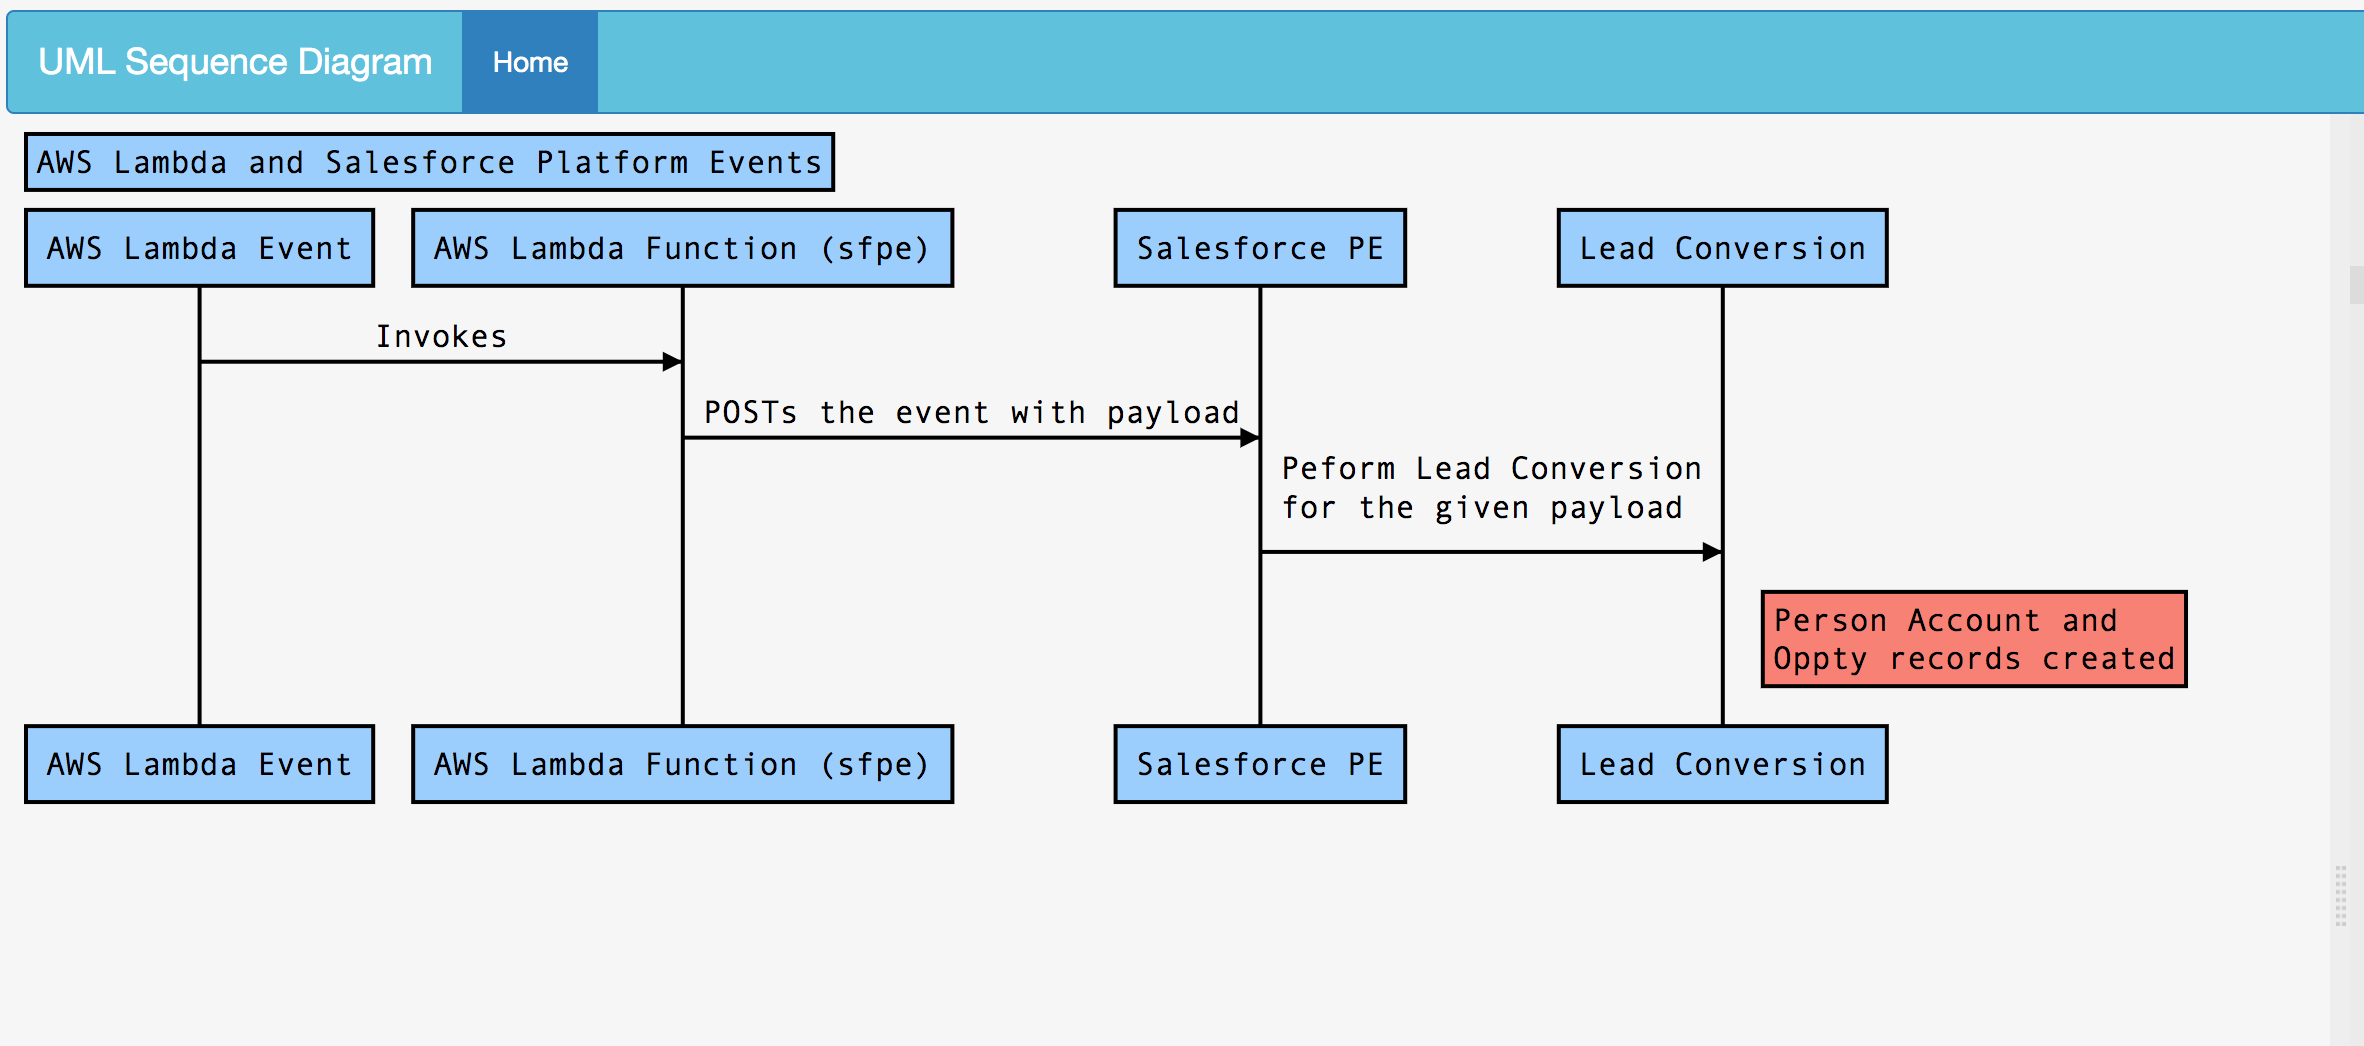
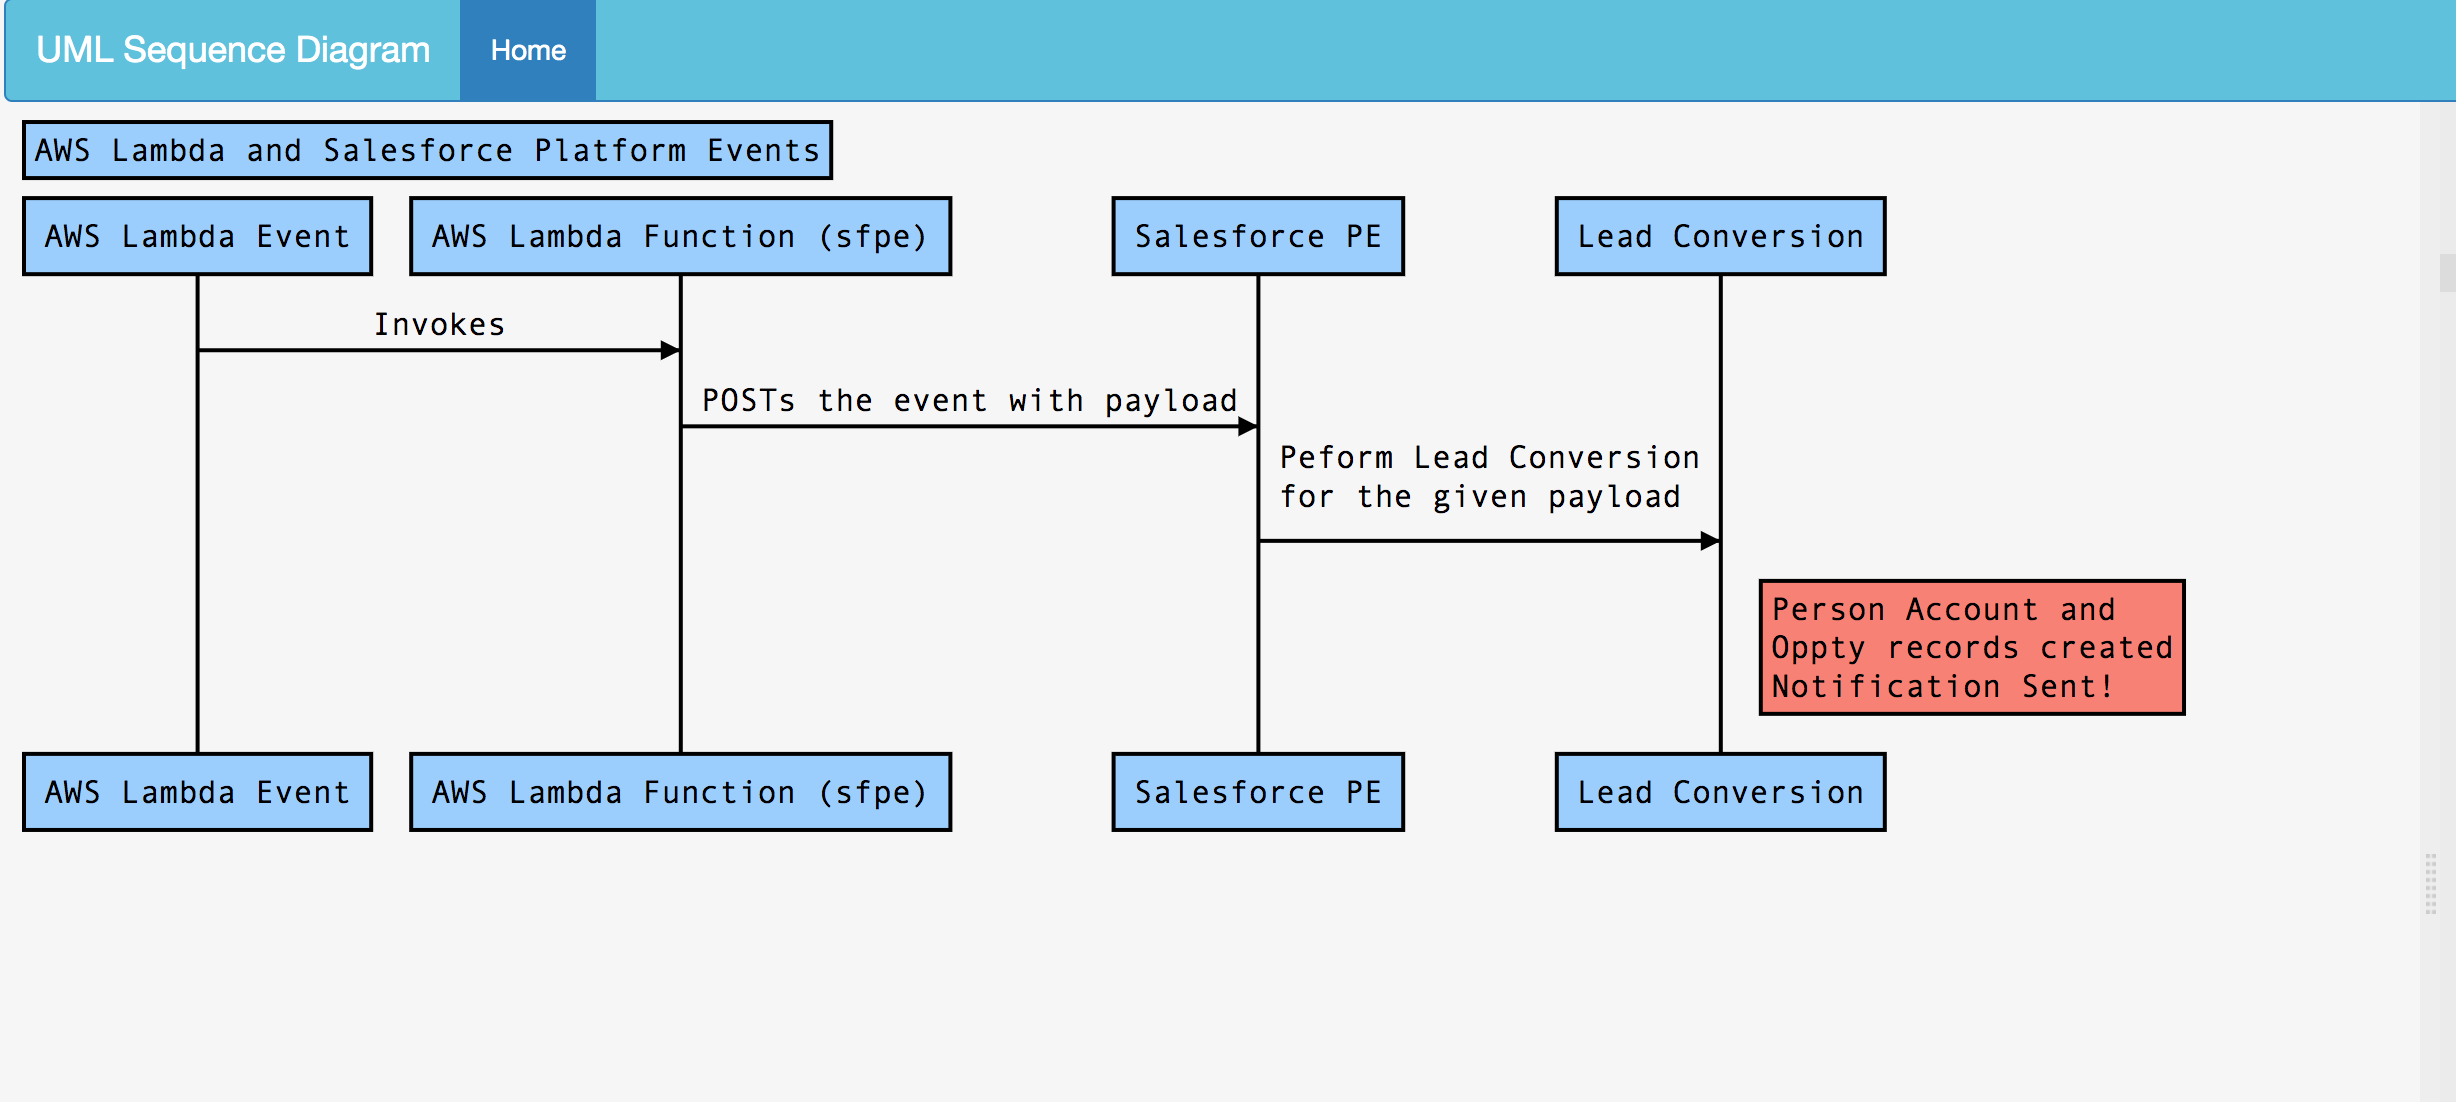
pe aws lambda updated

Changed region(s): [[0.0, 0.0, 1.0, 0.7954], [0.4323, 0.153, 0.8029, 0.2753], [0.9882, 0.826, 1.0, 0.8872]]

diff --git a/2020/sf-aws/sf-aws-pe.html b/2020/sf-aws/sf-aws-pe.html
@@ -33,7 +33,44 @@
 - Create Platform Event Object **LCTest__e**
 ![pe-1](img/pe-1.png)
 - Create Platform Event Trigger for **LCTest__e**
-![pe-2](img/pe-2.png)
+```
+trigger leadConvert on LCTest__e  (after insert) {
+    // TODO: Bulkify
+    // TODO: Check for the msg__c content and do the action based on that
+    String msg = Trigger.new[0].msg__c;
+    
+    String fname = Trigger.new[0].fname__c;
+    String lname = Trigger.new[0].lname__c;
+    String cname = Trigger.new[0].cname__c;
+    
+    Lead myLead = new Lead(LastName = lname, FirstName= fname, Company= cname );
+    insert myLead;
+    
+    Database.LeadConvert lc = new database.LeadConvert();
+    lc.setLeadId(myLead.id);
+    
+    LeadStatus convertStatus = [SELECT Id, MasterLabel FROM LeadStatus WHERE IsConverted=true LIMIT 1];
+    lc.setConvertedStatus(convertStatus.MasterLabel);
+    
+    Database.LeadConvertResult lcr = Database.convertLead(lc);
+    System.assert(lcr.isSuccess());
+    
+    // ref: https://developer.salesforce.com/docs/atlas.en-us.platform_events.meta/platform_events/platform_events_api_considerations.htm
+
+    /*
+      No Email Support from a Platform Event Trigger:
+      Sending an email message from a platform event trigger using the Messaging.SingleEmailMessage class is not supported.
+      The email can’t be sent because the sender is the Automated Process entity, which has no email address.
+    */
+   // Let us do FeedItem post 
+    FeedItem post = new FeedItem();
+    // userId can come from the event payload
+    post.ParentId ='0053h000000IJFeAAO';
+    post.Body = msg;
+    insert post;
+}
+
+```
 <div>
 </google-codelab-step>
 
@@ -70,7 +107,7 @@ async function sendPOST() {
     const url = `https://mohansun-fsc-21.my.salesforce.com/services/data/v46.0/sobjects/${sobj}`;
     // access token can be passed from outside (via event...)
     const at = `00D3h000000DC8N!ARcAQAEoNV.jGPdWoODD.GeAp.tzVqKQt_Cci1lrl91CL__WosVlAfOLCKx9tjIuI.I7JWablqx9pu8q209Y2434234234`;
-    const postbody = { "msg__c": "Create", "fname__c": "Johnny", "lname__c": "Sailer", "cname__c": "Jonny Sailer Sons" } ;
+    const postbody = { "msg__c": "Lead Conversion via AWS Lambda completed", "fname__c": "Johnny", "lname__c": "Sailer", "cname__c": "Jonny Sailer Sons" } ;
     const params = {
         method: "POST",
         mode: "cors",
@@ -149,7 +186,10 @@ $ cat package.json
 - ![pe-lc-2](img/aws-lambda-sf-pe-2.png)
 - ![pe-lc-5](img/pe-lc-5.png)
 
-`
+- Notifications
+- ![pe-notification-demo](img/pe-aws-lam-1.gif)`
+- ![pe-chatter msg](img/lc-pe-aws-chatter-1.png)
+
 
 </div>
 </google-codelab-step>
